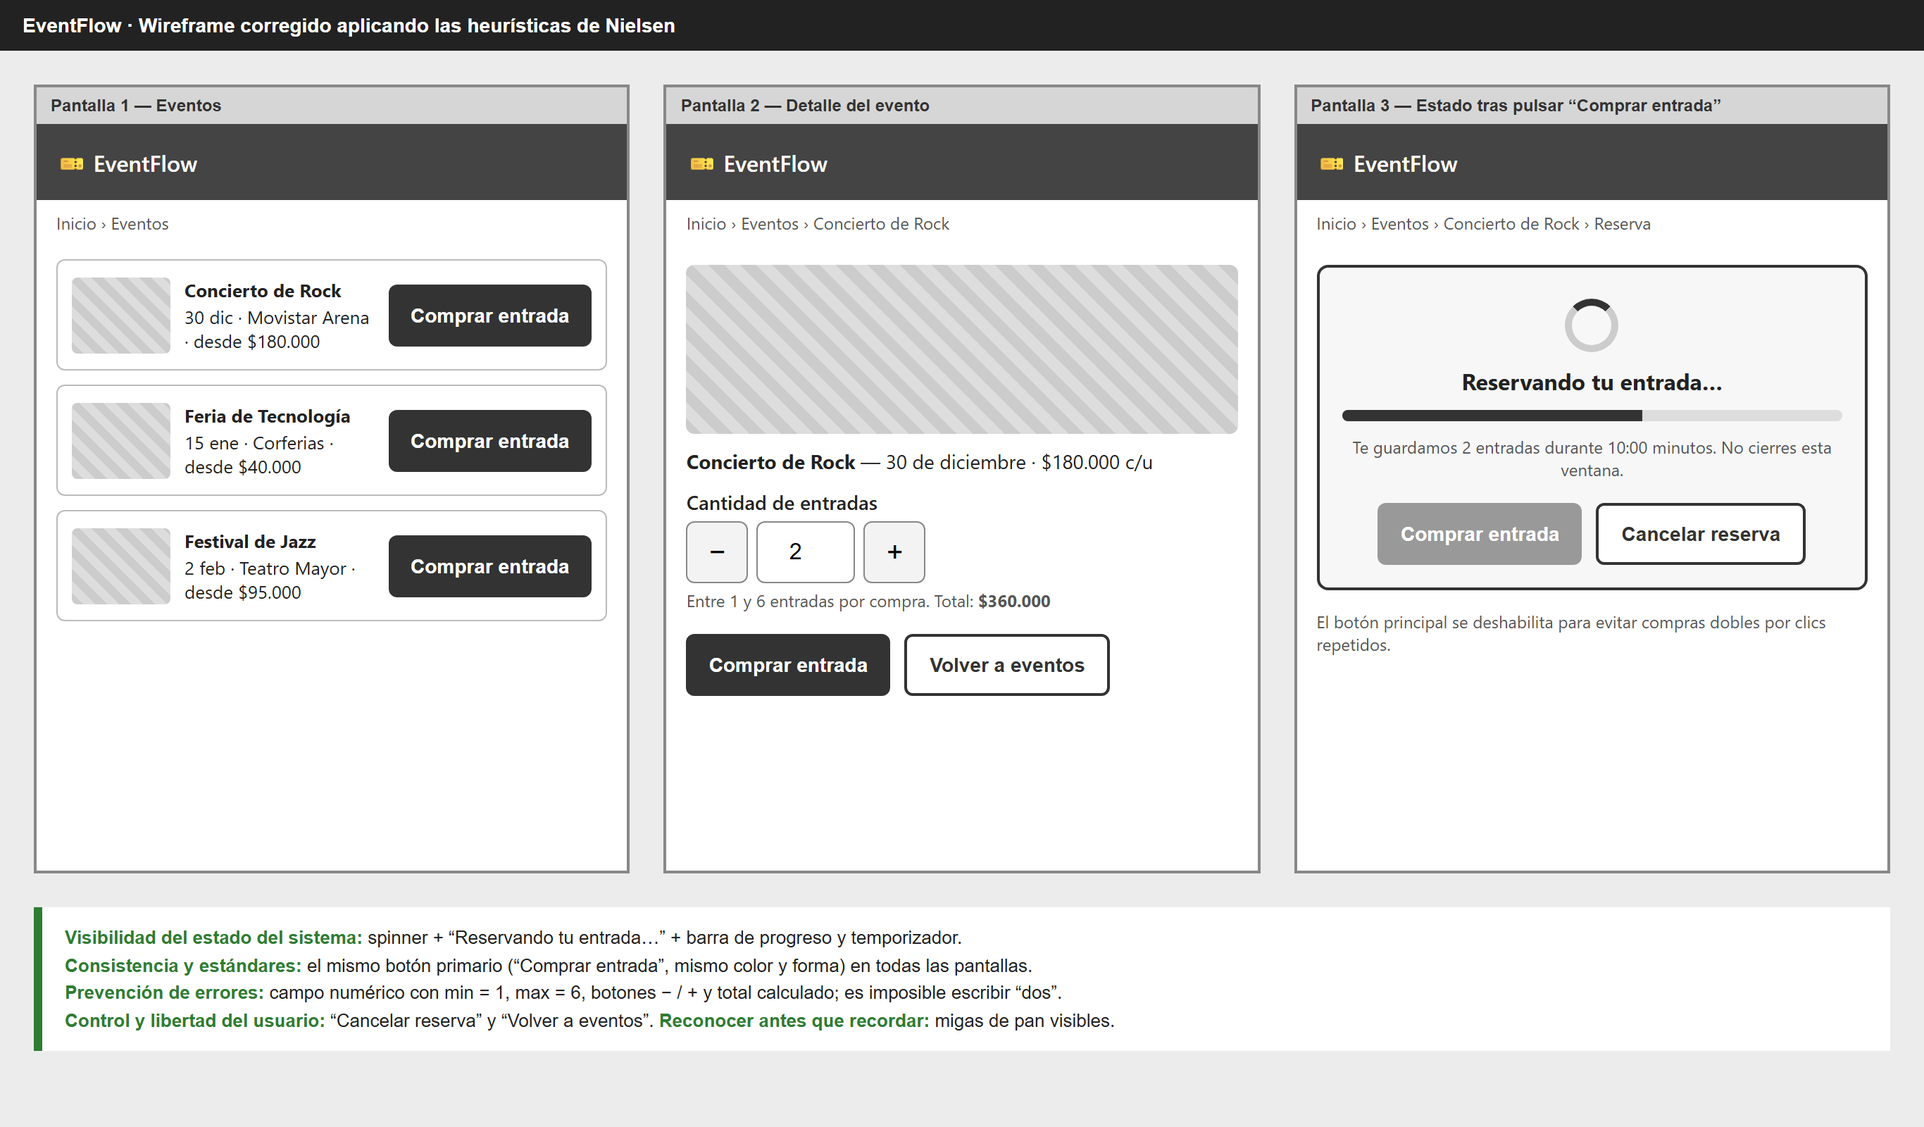
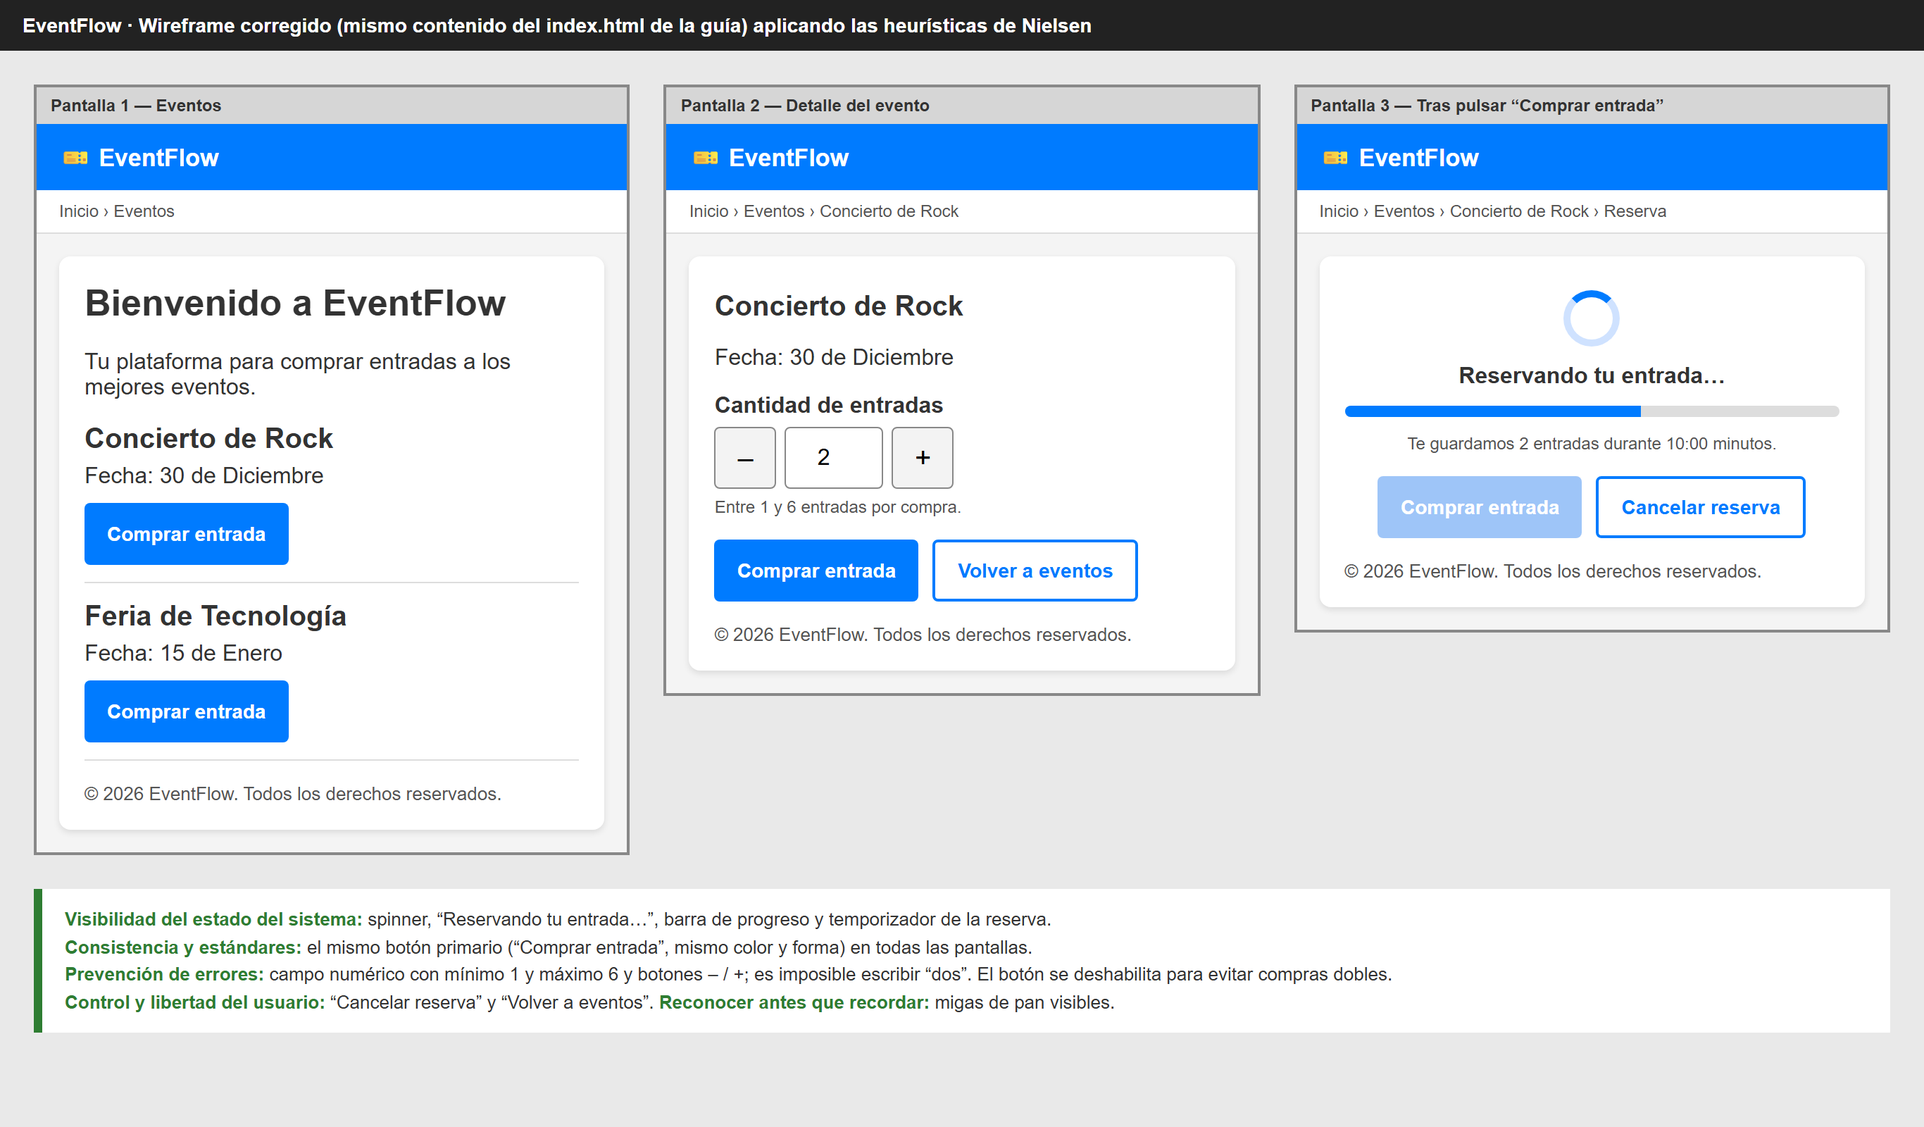
Update EventFlow wireframes: corrected styles and structure for improved usability and consistency

diff --git a/Sexto_Semestre/Arqui_Software/taller_arqui_nube/taller-arquitectura/wireframes/eventflow_corregido.html b/Sexto_Semestre/Arqui_Software/taller_arqui_nube/taller-arquitectura/wireframes/eventflow_corregido.html
@@ -3,105 +3,118 @@
 <head>
 <meta charset="UTF-8">
 <meta name="viewport" content="width=device-width, initial-scale=1">
-<title>EventFlow — Wireframe CORREGIDO</title>
+<title>EventFlow — Wireframe CORREGIDO (basado en index.html de la guía)</title>
 <style>
   * { box-sizing: border-box; }
-  body { margin: 0; font-family: "Segoe UI", Arial, sans-serif; background: #ececec; color: #222; }
+  body { margin: 0; font-family: Arial, sans-serif; background: #e9e9e9; color: #333; }
   .tag { background: #222; color: #fff; padding: 10px 16px; font: bold 14px Arial, sans-serif; }
-  .screens { display: flex; flex-wrap: wrap; gap: 24px; padding: 24px; }
-  .screen { flex: 1 1 320px; background: #fff; border: 2px solid #888; min-height: 560px; position: relative; }
+  .screens { display: flex; flex-wrap: wrap; gap: 24px; padding: 24px; align-items: flex-start; }
+  .screen { flex: 1 1 340px; border: 2px solid #888; background: #f4f4f4; }
   .screen h6 { margin: 0; padding: 6px 10px; background: #d6d6d6; font: bold 12px Arial; color: #333; }
-  .header { height: 54px; background: #444; color: #fff; display: flex; align-items: center; padding: 0 14px; font-weight: 600; }
-  .crumbs { font-size: 12px; color: #555; padding: 8px 14px; }
-  .card { margin: 10px 14px; border: 1px solid #bbb; padding: 10px; display: flex; gap: 10px; align-items: center; border-radius: 6px; }
-  .img { width: 70px; height: 54px; background: repeating-linear-gradient(45deg,#ccc,#ccc 6px,#ddd 6px,#ddd 12px); flex: none; border-radius: 4px; }
-  .card p { margin: 2px 0; font-size: 13px; }
-  .grow { flex: 1; }
-  /* Un único estilo de botón primario para la misma acción en todas las pantallas */
-  .btn { background: #333; color: #fff; border: 0; padding: 10px 16px; font-size: 14px; font-weight: 600; border-radius: 6px; cursor: pointer; min-height: 44px; }
-  .btn:disabled { background: #999; cursor: not-allowed; }
-  .btn-sec { background: #fff; color: #333; border: 2px solid #333; }
-  .detail { padding: 14px; font-size: 14px; }
-  .detail .big { height: 120px; background: repeating-linear-gradient(45deg,#ccc,#ccc 8px,#ddd 8px,#ddd 16px); margin-bottom: 10px; border-radius: 6px; }
-  label { display: block; font-weight: 600; margin: 10px 0 4px; }
+  .header { background: #007bff; color: #fff; padding: 12px 16px; font-weight: bold; font-size: 17px; }
+  .crumbs { font-size: 12px; color: #555; padding: 8px 16px; background: #fff; border-bottom: 1px solid #ddd; }
+  .page { padding: 16px; }
+  .container { background: #fff; padding: 18px; border-radius: 8px; box-shadow: 0 2px 5px rgba(0,0,0,0.1); }
+  h1 { color: #333; margin-top: 0; font-size: 26px; }
+  h2 { color: #333; margin: 6px 0; font-size: 20px; }
+  .evento { border-bottom: 1px solid #ddd; padding-bottom: 12px; margin-bottom: 12px; }
+  .evento p { margin: 4px 0 10px; }
+  /* Un único botón primario para la misma acción en todas las pantallas */
+  .btn { background-color: #007bff; color: #fff; padding: 10px 16px; border: none; border-radius: 4px; font-size: 14px; font-weight: bold; cursor: pointer; min-height: 44px; }
+  .btn:disabled { background-color: #9ec5f8; cursor: not-allowed; }
+  .btn-sec { background: #fff; color: #007bff; border: 2px solid #007bff; }
+  label { display: block; font-weight: bold; margin: 12px 0 6px; }
   .qty { display: flex; align-items: center; gap: 6px; }
-  .qty button { width: 44px; height: 44px; font-size: 20px; border: 1px solid #888; background: #f3f3f3; border-radius: 6px; }
-  .qty input { width: 70px; height: 44px; text-align: center; font-size: 16px; border: 1px solid #888; border-radius: 6px; }
-  .hint { font-size: 12px; color: #555; margin-top: 4px; }
+  .qty button { width: 44px; height: 44px; font-size: 20px; border: 1px solid #888; background: #f3f3f3; border-radius: 4px; }
+  .qty input { width: 70px; height: 44px; text-align: center; font-size: 16px; border: 1px solid #888; border-radius: 4px; }
+  .hint { font-size: 12px; color: #555; margin-top: 6px; }
   .actions { display: flex; gap: 10px; margin-top: 16px; flex-wrap: wrap; }
-  .state { margin: 14px; border: 2px solid #333; border-radius: 8px; padding: 16px; text-align: center; background: #f7f7f7; }
-  .spinner { width: 38px; height: 38px; border: 5px solid #ccc; border-top-color: #333; border-radius: 50%; margin: 6px auto 10px; animation: spin 1s linear infinite; }
+  .state { text-align: center; }
+  .spinner { width: 40px; height: 40px; border: 5px solid #cfe2ff; border-top-color: #007bff; border-radius: 50%; margin: 6px auto 12px; animation: spin 1s linear infinite; }
   @keyframes spin { to { transform: rotate(360deg); } }
-  .progress { height: 8px; background: #ddd; border-radius: 4px; overflow: hidden; margin: 10px 0; }
-  .progress div { width: 60%; height: 100%; background: #333; }
+  .progress { height: 8px; background: #ddd; border-radius: 4px; overflow: hidden; margin: 12px 0; }
+  .progress div { width: 60%; height: 100%; background: #007bff; }
+  footer p { color: #555; font-size: 13px; margin: 16px 0 0; }
   .notes { margin: 0 24px 24px; background: #fff; border-left: 6px solid #2e7d32; padding: 12px 16px; font: 13px/1.5 Arial, sans-serif; }
   .notes b { color: #2e7d32; }
 </style>
 </head>
 <body>
-<div class="tag">EventFlow · Wireframe corregido aplicando las heurísticas de Nielsen</div>
+<div class="tag">EventFlow · Wireframe corregido (mismo contenido del index.html de la guía) aplicando las heurísticas de Nielsen</div>
 <div class="screens">
   <section class="screen">
     <h6>Pantalla 1 — Eventos</h6>
     <div class="header">🎫 EventFlow</div>
     <div class="crumbs">Inicio › Eventos</div>
-    <div class="card"><div class="img"></div><div class="grow"><p><b>Concierto de Rock</b></p><p>30 dic · Movistar Arena · desde $180.000</p></div>
-      <button class="btn">Comprar entrada</button></div>
-    <div class="card"><div class="img"></div><div class="grow"><p><b>Feria de Tecnología</b></p><p>15 ene · Corferias · desde $40.000</p></div>
-      <button class="btn">Comprar entrada</button></div>
-    <div class="card"><div class="img"></div><div class="grow"><p><b>Festival de Jazz</b></p><p>2 feb · Teatro Mayor · desde $95.000</p></div>
-      <button class="btn">Comprar entrada</button></div>
+    <div class="page"><div class="container">
+      <h1>Bienvenido a EventFlow</h1>
+      <p>Tu plataforma para comprar entradas a los mejores eventos.</p>
+      <div class="evento">
+        <h2>Concierto de Rock</h2>
+        <p>Fecha: 30 de Diciembre</p>
+        <button class="btn">Comprar entrada</button>
+      </div>
+      <div class="evento">
+        <h2>Feria de Tecnología</h2>
+        <p>Fecha: 15 de Enero</p>
+        <button class="btn">Comprar entrada</button>
+      </div>
+      <footer><p>&copy; 2026 EventFlow. Todos los derechos reservados.</p></footer>
+    </div></div>
   </section>
 
   <section class="screen">
     <h6>Pantalla 2 — Detalle del evento</h6>
     <div class="header">🎫 EventFlow</div>
     <div class="crumbs">Inicio › Eventos › Concierto de Rock</div>
-    <form class="detail" id="f" onsubmit="return reservar(event)">
-      <div class="big"></div>
-      <b>Concierto de Rock</b> — 30 de diciembre · $180.000 c/u
-      <label for="cant">Cantidad de entradas</label>
-      <div class="qty">
-        <button type="button" aria-label="Quitar una" onclick="paso(-1)">−</button>
-        <input id="cant" type="number" inputmode="numeric" min="1" max="6" step="1" value="2" required>
-        <button type="button" aria-label="Agregar una" onclick="paso(1)">+</button>
-      </div>
-      <div class="hint">Entre 1 y 6 entradas por compra. Total: <b id="total">$360.000</b></div>
-      <div class="actions">
-        <button class="btn" type="submit" id="comprar">Comprar entrada</button>
-        <button class="btn btn-sec" type="button">Volver a eventos</button>
-      </div>
-    </form>
+    <div class="page"><div class="container">
+      <form onsubmit="return reservar(event)">
+        <h2>Concierto de Rock</h2>
+        <p>Fecha: 30 de Diciembre</p>
+        <label for="cant">Cantidad de entradas</label>
+        <div class="qty">
+          <button type="button" aria-label="Quitar una" onclick="paso(-1)">–</button>
+          <input id="cant" type="number" inputmode="numeric" min="1" max="6" step="1" value="2" required>
+          <button type="button" aria-label="Agregar una" onclick="paso(1)">+</button>
+        </div>
+        <div class="hint">Entre 1 y 6 entradas por compra.</div>
+        <div class="actions">
+          <button class="btn" type="submit" id="comprar">Comprar entrada</button>
+          <button class="btn btn-sec" type="button">Volver a eventos</button>
+        </div>
+      </form>
+      <footer><p>&copy; 2026 EventFlow. Todos los derechos reservados.</p></footer>
+    </div></div>
   </section>
 
   <section class="screen">
-    <h6>Pantalla 3 — Estado tras pulsar “Comprar entrada”</h6>
+    <h6>Pantalla 3 — Tras pulsar “Comprar entrada”</h6>
     <div class="header">🎫 EventFlow</div>
     <div class="crumbs">Inicio › Eventos › Concierto de Rock › Reserva</div>
-    <div class="state" role="status" aria-live="polite">
-      <div class="spinner"></div>
-      <b>Reservando tu entrada…</b>
-      <div class="progress"><div></div></div>
-      <div class="hint">Te guardamos 2 entradas durante 10:00 minutos. No cierres esta ventana.</div>
-      <div class="actions" style="justify-content:center">
-        <button class="btn" disabled>Comprar entrada</button>
-        <button class="btn btn-sec">Cancelar reserva</button>
+    <div class="page"><div class="container">
+      <div class="state" role="status" aria-live="polite">
+        <div class="spinner"></div>
+        <b>Reservando tu entrada…</b>
+        <div class="progress"><div></div></div>
+        <div class="hint">Te guardamos 2 entradas durante 10:00 minutos.</div>
+        <div class="actions" style="justify-content:center">
+          <button class="btn" disabled>Comprar entrada</button>
+          <button class="btn btn-sec">Cancelar reserva</button>
+        </div>
       </div>
-    </div>
-    <div class="hint" style="padding:0 14px">El botón principal se deshabilita para evitar compras dobles por clics repetidos.</div>
+      <footer><p>&copy; 2026 EventFlow. Todos los derechos reservados.</p></footer>
+    </div></div>
   </section>
 </div>
 <div class="notes">
-  <b>Visibilidad del estado del sistema:</b> spinner + “Reservando tu entrada…” + barra de progreso y temporizador.<br>
+  <b>Visibilidad del estado del sistema:</b> spinner, “Reservando tu entrada…”, barra de progreso y temporizador de la reserva.<br>
   <b>Consistencia y estándares:</b> el mismo botón primario (“Comprar entrada”, mismo color y forma) en todas las pantallas.<br>
-  <b>Prevención de errores:</b> campo numérico con min = 1, max = 6, botones − / + y total calculado; es imposible escribir “dos”.<br>
+  <b>Prevención de errores:</b> campo numérico con mínimo 1 y máximo 6 y botones – / +; es imposible escribir “dos”. El botón se deshabilita para evitar compras dobles.<br>
   <b>Control y libertad del usuario:</b> “Cancelar reserva” y “Volver a eventos”. <b>Reconocer antes que recordar:</b> migas de pan visibles.
 </div>
 <script>
-  const precio = 180000, cant = document.getElementById('cant');
-  function paso(d) { cant.value = Math.min(6, Math.max(1, (+cant.value || 1) + d)); upd(); }
-  function upd() { document.getElementById('total').textContent = '$' + (cant.value * precio).toLocaleString('es-CO'); }
-  cant.addEventListener('input', upd);
+  const cant = document.getElementById('cant');
+  function paso(d) { cant.value = Math.min(6, Math.max(1, (+cant.value || 1) + d)); }
   function reservar(e) { e.preventDefault(); const b = document.getElementById('comprar'); b.disabled = true; b.textContent = 'Reservando tu entrada…'; return false; }
 </script>
 </body>

diff --git a/Sexto_Semestre/Arqui_Software/taller_arqui_nube/taller-arquitectura/wireframes/eventflow_malo.html b/Sexto_Semestre/Arqui_Software/taller_arqui_nube/taller-arquitectura/wireframes/eventflow_malo.html
@@ -3,70 +3,85 @@
 <head>
 <meta charset="UTF-8">
 <meta name="viewport" content="width=device-width, initial-scale=1">
-<title>EventFlow — Wireframe MALO (intencional)</title>
+<title>EventFlow — Wireframe MALO (basado en index.html de la guía)</title>
 <style>
   * { box-sizing: border-box; }
-  body { margin: 0; font-family: "Comic Sans MS", "Segoe UI", sans-serif; background: #e9e9e9; color: #444; }
+  body { margin: 0; font-family: Arial, sans-serif; background: #e9e9e9; color: #333; }
   .tag { background: #222; color: #fff; padding: 10px 16px; font: bold 14px Arial, sans-serif; }
-  .screens { display: flex; flex-wrap: wrap; gap: 24px; padding: 24px; }
-  .screen { flex: 1 1 360px; background: #fafafa; border: 2px dashed #999; min-height: 560px; position: relative; }
+  .screens { display: flex; flex-wrap: wrap; gap: 24px; padding: 24px; align-items: flex-start; }
+  .screen { flex: 1 1 380px; border: 2px dashed #999; background: #f4f4f4; }
   .screen h6 { margin: 0; padding: 6px 10px; background: #ccc; font: bold 12px Arial; color: #333; }
-  .header { height: 54px; background: #bbb; display: flex; align-items: center; padding: 0 12px; font-size: 13px; }
-  .card { margin: 12px; border: 1px solid #bbb; background: #eee; padding: 10px; display: flex; gap: 10px; align-items: center; }
-  .img { width: 70px; height: 54px; background: repeating-linear-gradient(45deg,#ccc,#ccc 6px,#ddd 6px,#ddd 12px); flex: none; }
-  .card p { margin: 2px 0; font-size: 12px; }
-  .grow { flex: 1; }
-  /* Violación: botones distintos para la misma acción */
-  .btn-verde { background: #2e9e44; color: #fff; border: 0; padding: 6px 10px; font-size: 11px; }
-  .btn-azul { background: #1f5fd1; color: #fff; border: 0; padding: 14px 30px; border-radius: 20px; font-size: 15px; }
-  .detail { padding: 14px; font-size: 12px; }
-  .detail .big { height: 130px; background: repeating-linear-gradient(45deg,#ccc,#ccc 8px,#ddd 8px,#ddd 16px); margin-bottom: 10px; }
-  .detail input { width: 120px; padding: 6px; border: 1px solid #aaa; font-size: 13px; }
-  .err { color: #999; font-size: 10px; margin-top: 6px; }
-  .tiny { font-size: 9px; color: #aaa; }
-  .callout { position: absolute; background: #ffeb3b; border: 2px solid #c62828; color: #c62828; font: bold 12px Arial; border-radius: 50%; width: 26px; height: 26px; display: flex; align-items: center; justify-content: center; }
+  .page { padding: 20px; }
+  /* Estilos tomados del index.html de la guía */
+  .container { max-width: 600px; margin: auto; background: #fff; padding: 20px; border-radius: 8px; box-shadow: 0 2px 5px rgba(0,0,0,0.1); }
+  h1 { color: #333; margin-top: 0; }
+  h2 { color: #333; }
+  .evento { border-bottom: 1px solid #ddd; padding-bottom: 10px; margin-bottom: 10px; }
+  footer p { color: #555; }
+  /* Fallas añadidas a propósito (Parte A de la guía) */
+  .btn-verde { background-color: #28a745; color: white; padding: 10px 15px; border: none; border-radius: 4px; cursor: pointer; }
+  .btn-azul { background-color: #007bff; color: white; padding: 14px 32px; border: none; border-radius: 24px; font-size: 16px; cursor: pointer; }
+  input.cant { width: 140px; padding: 6px; border: 1px solid #aaa; font-size: 14px; }
+  .err { color: #999; font-size: 11px; margin-top: 6px; }
+  .nota { font-size: 11px; color: #888; }
+  .mk { display: inline-flex; align-items: center; justify-content: center; width: 24px; height: 24px; margin-left: 6px;
+        background: #ffeb3b; border: 2px solid #c62828; color: #c62828; font: bold 12px Arial; border-radius: 50%; vertical-align: middle; }
   .notes { margin: 0 24px 24px; background: #fff; border-left: 6px solid #c62828; padding: 12px 16px; font: 13px/1.5 Arial, sans-serif; color: #333; }
   .notes b { color: #c62828; }
 </style>
 </head>
 <body>
-<div class="tag">EventFlow · Wireframe “mal hecho” a propósito (para auditoría heurística de Nielsen)</div>
+<div class="tag">EventFlow · Wireframe “mal hecho” a propósito: index.html de la guía + 3 fallas de la Parte A</div>
 <div class="screens">
-  <section class="screen" id="eventos">
-    <h6>Pantalla 1 — Eventos</h6>
-    <div class="header">EVENTFLOW &nbsp;|&nbsp; inicio &gt; ??? </div>
-    <div class="card"><div class="img"></div><div class="grow"><p><b>Concierto de Rock</b></p><p>30/12 · Movistar Arena</p></div>
-      <button class="btn-verde" onclick="/* no pasa nada */">Comprar</button></div>
-    <div class="card"><div class="img"></div><div class="grow"><p><b>Feria de Tecnología</b></p><p>15/01 · Corferias</p></div>
-      <button class="btn-verde">Comprar</button></div>
-    <div class="card"><div class="img"></div><div class="grow"><p><b>Festival de Jazz</b></p><p>02/02 · Teatro Mayor</p></div>
-      <button class="btn-verde">Comprar</button></div>
-    <span class="callout" style="top:118px;right:4px">1</span>
-    <span class="callout" style="top:204px;right:4px">2</span>
+  <section class="screen">
+    <h6>Pantalla 1 — Eventos (index.html)</h6>
+    <div class="page">
+      <div class="container">
+        <h1>Bienvenido a EventFlow</h1>
+        <p>Tu plataforma para comprar entradas a los mejores eventos.</p>
+
+        <div class="evento">
+          <h2>Concierto de Rock</h2>
+          <p>Fecha: 30 de Diciembre</p>
+          <button class="btn-verde">Comprar</button><span class="mk">1</span><span class="mk">2</span>
+        </div>
+
+        <div class="evento">
+          <h2>Feria de Tecnología</h2>
+          <p>Fecha: 15 de Enero</p>
+          <button class="btn-verde">Comprar</button><span class="mk">1</span><span class="mk">2</span>
+        </div>
+
+        <footer>
+          <p>&copy; 2025 EventFlow. Todos los derechos reservados.</p>
+        </footer>
+      </div>
+    </div>
   </section>
 
-  <section class="screen" id="detalle">
+  <section class="screen">
     <h6>Pantalla 2 — Detalle del evento</h6>
-    <div class="header">EVENTFLOW</div>
-    <div class="detail">
-      <div class="big"></div>
-      <p><b>Concierto de Rock</b> — 30 de diciembre</p>
-      <p>Cantidad de entradas:</p>
-      <input type="text" value="dos">
-      <div class="err">ERR_QTY_NAN: valor inválido (código 0x1F)</div>
-      <p style="margin-top:18px"><button class="btn-azul">Adquirir</button></p>
-      <p class="tiny">Al hacer clic no se muestra ningún indicador. No hay botón para cancelar ni volver.</p>
+    <div class="page">
+      <div class="container">
+        <h2>Concierto de Rock</h2>
+        <p>Fecha: 30 de Diciembre</p>
+        <p>Cantidad de entradas:</p>
+        <input class="cant" type="text" value="dos"><span class="mk">3</span>
+        <div class="err">ERR_QTY_NAN: valor inválido (código 0×1F)</div>
+        <p style="margin-top:20px"><button class="btn-azul">Adquirir</button><span class="mk">1</span><span class="mk">2</span></p>
+        <p class="nota">Al hacer clic solo aparece alert('¡Entrada comprada! (No realmente)'): sin indicador de carga, sin cancelar ni volver.</p>
+        <footer>
+          <p>&copy; 2025 EventFlow. Todos los derechos reservados.</p>
+        </footer>
+      </div>
     </div>
-    <span class="callout" style="top:296px;left:150px">3</span>
-    <span class="callout" style="top:372px;left:142px">2</span>
-    <span class="callout" style="top:372px;left:174px">1</span>
   </section>
 </div>
 <div class="notes">
-  <b>① Visibilidad del estado del sistema:</b> el usuario hace clic en “Comprar”/“Adquirir” y no pasa nada: ni spinner ni mensaje.<br>
-  <b>② Consistencia y estándares:</b> en Eventos el botón es verde y dice “Comprar”; en Detalle es azul, redondo y dice “Adquirir”.<br>
-  <b>③ Prevención de errores:</b> el campo “Cantidad” es de texto y acepta “dos”; el error aparece después, en jerga técnica (ERR_QTY_NAN).<br>
-  Otras: sin “Cancelar” (control y libertad), migas de pan rotas “inicio &gt; ???” (reconocer antes que recordar).
+  <b>① Visibilidad del estado del sistema:</b> el usuario hace clic en “Comprar”/“Adquirir” y no hay spinner ni mensaje de carga; solo un alert.<br>
+  <b>② Consistencia y estándares:</b> en Eventos el botón es verde y dice “Comprar”; en Detalle es azul, redondeado y dice “Adquirir”.<br>
+  <b>③ Prevención de errores:</b> el campo “Cantidad de entradas” es de texto y acepta “dos”; el error aparece después, en jerga técnica (ERR_QTY_NAN).<br>
+  Otras: sin Cancelar/Volver (control y libertad) y sin migas de pan (reconocer antes que recordar).
 </div>
 </body>
 </html>
